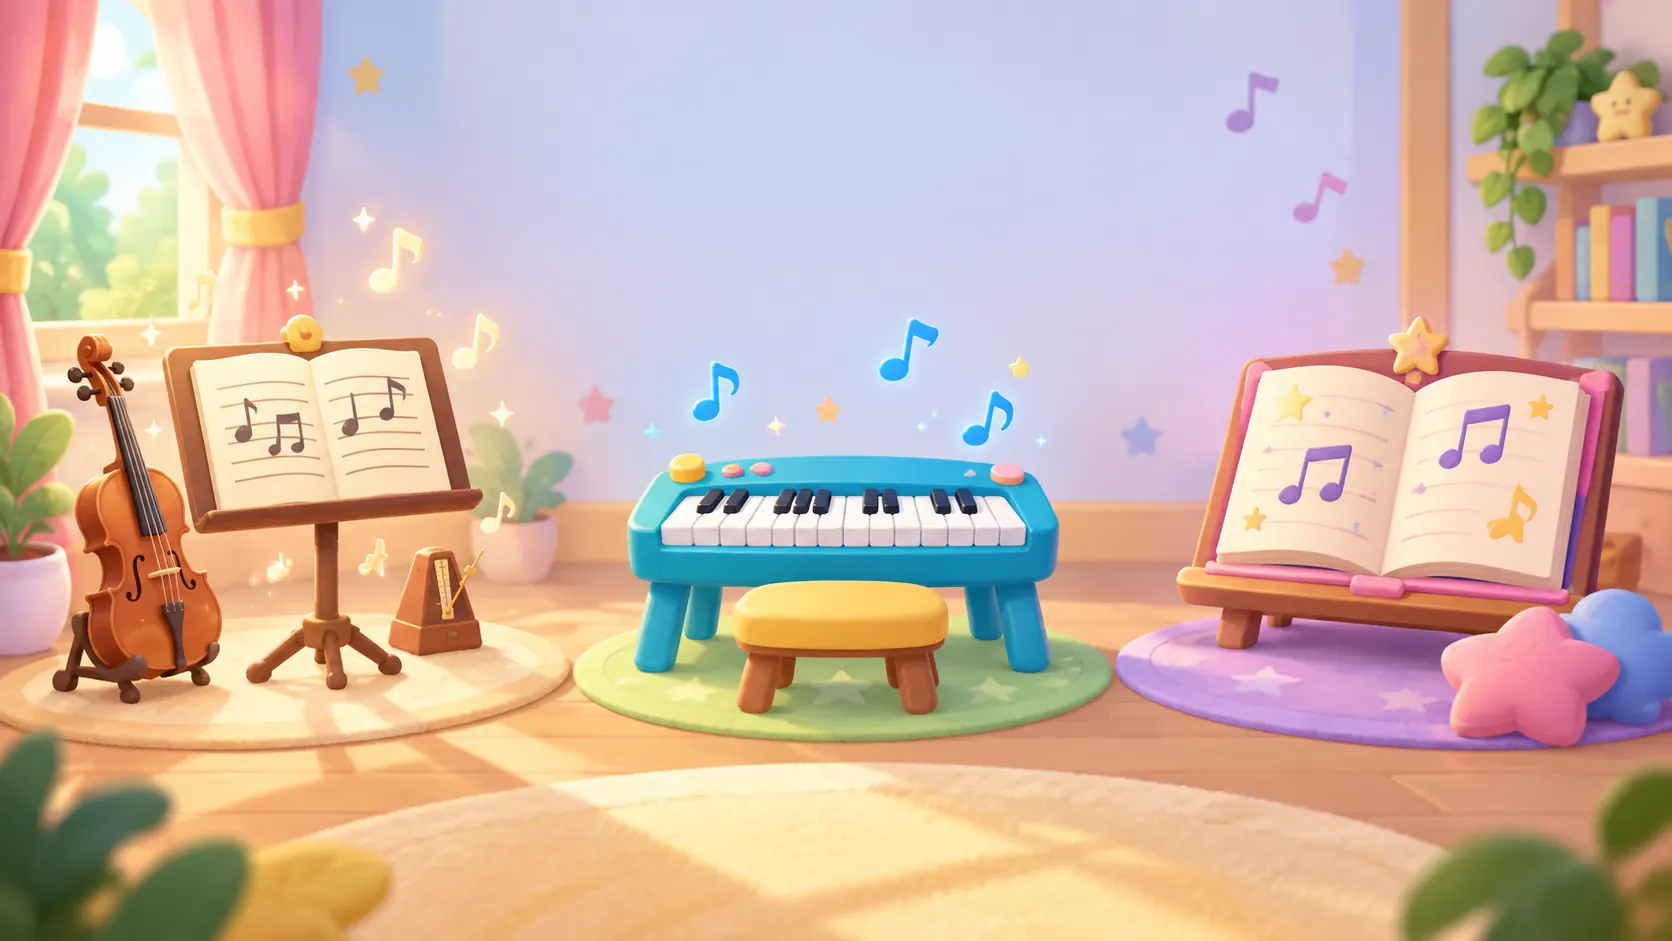
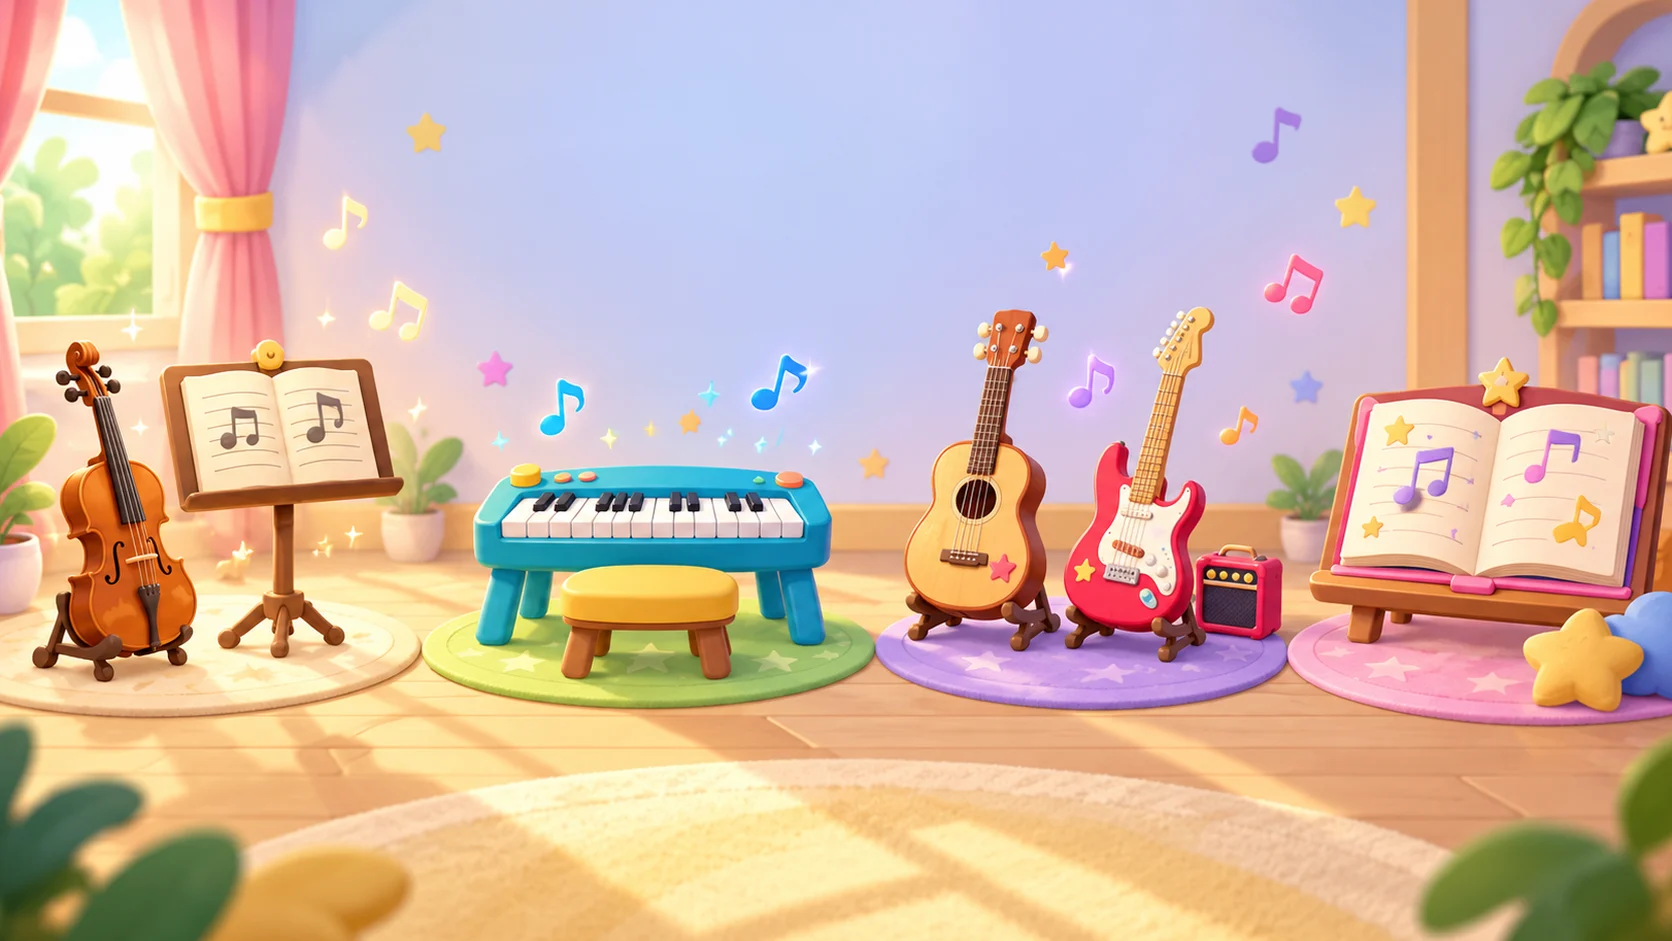
Publish site from private main c520a45f5fc2db3401aa675318df1c2d513d5a29 (children-apps-v41)

diff --git a/children-apps/playroom/category.css b/children-apps/playroom/category.css
@@ -13,7 +13,24 @@ body.painted-room{display:block;margin:0;padding:0;min-height:100%;background:#2
 .painted-room .topbar{position:fixed;z-index:30;inset:calc(12px + env(safe-area-inset-top)) 12px auto;display:flex;align-items:flex-start;justify-content:space-between;pointer-events:none}
 .painted-room .back,.painted-room .view-switch,.painted-room .music-btn{pointer-events:auto;background:rgba(255,255,255,.95);border:2px solid #8f86d8;box-shadow:0 4px 0 #665cae;color:#453884}
 .painted-room .back{min-height:56px;padding:0 18px 0 14px}.painted-room .back svg{width:23px;height:23px}.view-switch{display:flex;padding:4px;border-radius:999px;margin-left:auto;margin-right:72px}.view-switch button{min-height:46px;padding:0 16px;border:0;border-radius:999px;background:transparent;color:#53478e;font:900 .95rem 'Nunito',sans-serif}.view-switch button[aria-pressed=true]{background:#6656bd;color:#fff}
-.room-view{min-height:100svh;display:grid;place-items:center;padding:84px 12px 18px}.room-frame{position:relative;width:min(100%,1672px);aspect-ratio:1672/941;border-radius:24px;overflow:hidden;box-shadow:0 18px 55px rgba(7,4,28,.45);background:#171238}.room-frame>img{display:block;width:100%;height:100%;object-fit:contain}.room-hotspots{position:absolute;inset:0}.room-hotspot{position:absolute;inset:0;display:block;background:transparent;-webkit-tap-highlight-color:transparent}.room-hotspot:hover,.room-hotspot:focus-visible{background:rgba(255,245,159,.18);filter:drop-shadow(0 0 9px #fff2a6);outline:0}
+.room-view{min-height:100svh;display:grid;place-items:center;padding:84px 12px 18px}.room-frame{position:relative;width:min(100%,1672px);aspect-ratio:1672/941;border-radius:24px;overflow:hidden;box-shadow:0 18px 55px rgba(7,4,28,.45);background:#171238}.room-frame>img{display:block;width:100%;height:100%;object-fit:contain}.room-hotspots{position:absolute;inset:0}.room-hotspot{position:absolute;inset:0;display:block;background:transparent;-webkit-tap-highlight-color:transparent}.room-hotspot:hover,.room-hotspot:focus-visible,.room-hotspot.on{background:rgba(255,245,159,.18);filter:drop-shadow(0 0 9px #fff2a6);outline:0}
+/* NAME BUBBLE (2026-10-07) — the hub's bubble (playroom.css), same values, for the room objects.
+   At rest nothing shows: no permanent labels, no dots. It appears on hover, on press (.on, set by
+   category.js's pointer handling, which mirrors playroom.js) and on keyboard focus-visible. The
+   hotspot is clip-pathed to its polygon and a clip-path clips children too, so each bubble lives
+   in a sibling .spot-tag span that category.js sizes to the polygon's bounding box; the sibling
+   combinators below light it from its own hotspot. */
+.spot-tag{position:absolute;z-index:1;pointer-events:none}
+.room-hotspot:hover+.spot-tag,.room-hotspot:focus-visible+.spot-tag,.room-hotspot.on+.spot-tag{z-index:2}
+.bubble{position:absolute;left:50%;top:0;--bubble-from:translate(-50%,-78%);transform:var(--bubble-from) scale(.85);opacity:0;transition:opacity .16s ease,transform .2s cubic-bezier(.3,1.6,.5,1);padding:.35em .85em .4em;border-radius:999px;background:var(--card);border:3px solid #f3b7d5;box-shadow:0 4px 0 #e9cfe0,0 8px 18px rgba(72,48,104,.2);font-weight:900;font-size:clamp(14px,1.9vw,22px);line-height:1.15;white-space:nowrap;color:#4a3168;pointer-events:none}
+.bubble.below{--bubble-from:translate(-50%,18%)}
+.bubble.start{left:0;--bubble-from:translate(0,-78%)}
+.bubble.start.below{--bubble-from:translate(0,18%)}
+.bubble.end{left:auto;right:0;--bubble-from:translate(0,-78%)}
+.bubble.end.below{--bubble-from:translate(0,18%)}
+@media(hover:hover){.room-hotspot:hover+.spot-tag .bubble{opacity:1;transform:var(--bubble-from) scale(1)}}
+.room-hotspot:focus-visible+.spot-tag .bubble,.room-hotspot.on+.spot-tag .bubble{opacity:1;transform:var(--bubble-from) scale(1)}
+
 .cards-view{min-height:100svh;padding:100px 20px 34px;background:linear-gradient(160deg,#fdf6ff,#edf2ff);color:#3b2a52}.cards-view header{text-align:center;margin:0 auto 26px}.cards-view h1{margin:0}.painted-room .grid{grid-template-columns:repeat(auto-fit,minmax(220px,280px));max-width:980px;margin:auto}.painted-room .card{min-height:235px;padding:22px 16px}.painted-room .card .art{width:116px;height:116px}.painted-room .card .art img{width:92px;height:92px}.music-btn{position:fixed;z-index:40;top:calc(12px + env(safe-area-inset-top));right:12px;width:56px;height:56px;border-radius:50%;display:grid;place-items:center;padding:0}.music-btn svg{width:28px}.music-btn .note{fill:#8f86d8}.music-btn .slash{stroke:#8f86d8;stroke-width:2.6;stroke-linecap:round}.music-btn[aria-pressed=true] .note{fill:#e5a100}.music-btn[aria-pressed=true] .slash{display:none}
 @media(max-width:560px){.painted-room .back{width:56px;padding:0;justify-content:center}.painted-room .back span{display:none}.view-switch{margin-right:62px}.view-switch button{padding:0 11px}.room-view{padding-inline:4px}.room-frame{border-radius:12px}.painted-room .grid{grid-template-columns:minmax(220px,340px)}}
-@media(prefers-reduced-motion:reduce){.card{transition:none}.card:hover{transform:none}}
+@media(prefers-reduced-motion:reduce){.card{transition:none}.card:hover{transform:none}.bubble{transition:none}}

diff --git a/children-apps/playroom/category.js b/children-apps/playroom/category.js
@@ -7,6 +7,7 @@
   var cat = R.categories.filter(function (c) { return c.id === id; })[0];
   var room = R.categoryRooms && R.categoryRooms[id];
   var THAI = /[\u0E00-\u0E7F]/;
+  var reduced = window.matchMedia && window.matchMedia('(prefers-reduced-motion: reduce)').matches;
   var title = document.getElementById('catTitle');
   var line = document.getElementById('catLine');
   var picture = document.getElementById('roomPicture');
@@ -53,6 +54,32 @@
     a.firstChild.textContent = d.name;
     spots.appendChild(a);
 
+    /* The name bubble (owner, 2026-10-07: the main menu names its objects, the rooms did not).
+       The hotspot above is clip-pathed to the object's polygon and a clip-path clips children
+       too, so the bubble cannot live inside it: it sits in this sibling span, sized to the
+       polygon's bounding box. Edged exactly like the hub's doors (playroom.js): below an object
+       near the top of the room, pinned to its edge when centring would run off the picture. */
+    var x0 = 100, y0 = 100, x1 = 0, y1 = 0;
+    d.points.forEach(function (p) {
+      if (p[0] < x0) x0 = p[0];
+      if (p[0] > x1) x1 = p[0];
+      if (p[1] < y0) y0 = p[1];
+      if (p[1] > y1) y1 = p[1];
+    });
+    var w = x1 - x0, cx = x0 + w / 2;
+    var tag = document.createElement('span');
+    tag.className = 'spot-tag';
+    tag.setAttribute('aria-hidden', 'true');
+    tag.style.left = x0 + '%'; tag.style.top = y0 + '%';
+    tag.style.width = w + '%'; tag.style.height = (y1 - y0) + '%';
+    var b = document.createElement('span');
+    b.className = 'bubble' + (y0 < 12 ? ' below' : '') +
+                  (cx < 12 ? ' start' : (cx > 88 ? ' end' : ''));
+    b.lang = THAI.test(d.name) ? 'th' : 'en';
+    b.textContent = d.name;
+    tag.appendChild(b);
+    spots.appendChild(tag);
+
     var c = document.createElement('a');
     c.className = 'card'; c.href = L.app(d.href); c.dataset.id = d.id;
     if (d.tone) {
@@ -67,6 +94,38 @@
     var desc = document.createElement('span'); desc.className = 'desc'; desc.textContent = d.desc;
     c.appendChild(art); c.appendChild(name); c.appendChild(desc); grid.appendChild(c);
   });
+
+  /* ── PRESS, THEN GO ── the hub's tap handling (playroom.js), brought into the rooms so a tap
+     is answered with the object's name before the page goes. Modified clicks (new tab) are left
+     to the browser; a keyboard Enter goes at once. Every room object only ever navigates —
+     there is no card-view door here, so the bubble's job is the name, then the page turns. */
+  var going = false;
+  function clear() {
+    going = false;
+    Array.prototype.forEach.call(spots.querySelectorAll('.room-hotspot.on'), function (s) { s.classList.remove('on'); });
+  }
+  spots.addEventListener('pointerdown', function (e) {
+    var s = e.target.closest && e.target.closest('.room-hotspot');
+    if (!s || going) return;
+    clear();
+    s.classList.add('on');
+  });
+  spots.addEventListener('pointercancel', function () { if (!going) clear(); });
+  spots.addEventListener('pointerleave', function (e) { if (e.pointerType === 'mouse' && !going) clear(); });
+  spots.addEventListener('click', function (e) {
+    var s = e.target.closest && e.target.closest('.room-hotspot');
+    if (!s) return;
+    if (e.defaultPrevented || e.button !== 0 || e.metaKey || e.ctrlKey || e.shiftKey || e.altKey) return;
+    if (e.detail === 0) return;                 /* keyboard Enter: the browser follows the link at once */
+    e.preventDefault();
+    if (going) return;
+    going = true;
+    s.classList.add('on');
+    var href = s.href;
+    setTimeout(function () { window.location.assign(href); }, reduced ? 120 : 320);
+  });
+  /* Coming back from a game restores this page from the back-forward cache, lit as it was left. */
+  window.addEventListener('pageshow', function (e) { if (e.persisted) clear(); });
 
   var key = 'ca_category_view_' + id;
   function show(view, remember) {

diff --git a/children-apps/playroom/destinations.js b/children-apps/playroom/destinations.js
@@ -110,13 +110,16 @@ window.PLAYROOM = {
       objects: [
         { id: "classical-music", name: "Classical Music", desc: "Listen and guess",
           href: "../magic-math/classical-music.html", tile: "./assets/classical-music.webp", tone: ["#17a2b8", "#0d7c8e", "#e2f7fa"],
-          points: [[2.0,38.0],[7.0,34.0],[26.0,34.5],[30.0,40.0],[29.5,72.0],[23.0,76.0],[5.0,73.0],[2.0,65.0]] },
+          points: [[3.3, 36.3], [6.5, 36.3], [9.6, 37.9], [24.0, 37.9], [24.0, 53.2], [20.7, 68.6], [13.3, 69.1], [11.7, 71.3], [2.2, 71.3], [2.5, 55.4]] },
         { id: "toy-keyboard", name: "Toy Keyboard", desc: "Play and make music",
           href: "../toy-keyboard/", tile: "./assets/toy-keyboard.webp", tone: ["#8b6bd9", "#6046aa", "#f0ebff"],
-          points: [[36.0,49.0],[60.5,48.5],[64.0,55.0],[62.5,75.0],[57.0,78.5],[39.0,77.0],[35.5,69.0]] },
+          points: [[28.4, 49.9], [49.9, 49.4], [49.9, 57.1], [47.5, 65.5], [44.4, 65.5], [44.1, 71.9], [33.6, 72.1], [33.3, 65.5], [29.3, 65.5], [28.4, 57.6]] },
+        { id: "toy-guitar", name: "Toy Guitar", desc: "Strum, pick and drum",
+          href: "../toy-guitar/", tile: "./assets/toy-guitar.webp", tone: ["#ef6b69", "#b9474b", "#fff0df"],
+          points: [[58.0, 33.0], [62.0, 33.0], [63.8, 42.3], [69.4, 32.4], [72.7, 33.5], [71.2, 46.7], [72.1, 51.6], [76.8, 58.2], [76.8, 66.9], [69.4, 68.6], [63.2, 67.5], [54.3, 65.8], [53.9, 55.4], [57.0, 45.6]] },
         { id: "music-book", name: "Music Book", desc: "Explore songs",
           href: "../music-book/", tile: "./assets/music-book.webp", cutout: true, tone: ["#e280a6", "#b35279", "#fff0f6"],
-          points: [[71.0,36.0],[91.5,36.0],[96.0,43.0],[95.0,67.0],[89.0,71.5],[70.0,68.0],[68.5,59.0]] }
+          points: [[81.1, 41.7], [88.5, 38.4], [90.9, 40.6], [99.6, 42.3], [98.6, 64.2], [94.6, 69.1], [79.2, 68.6], [78.3, 62.0]] }
       ]
     },
     puzzles: {

diff --git a/children-apps/service-worker.js b/children-apps/service-worker.js
@@ -130,7 +130,7 @@
  *                  scenes and five shells join SHELL so every shaped object door
  *                  works offline. One branch bump for the complete room set.
  */
-const CACHE_NAME = "children-apps-v40";
+const CACHE_NAME = "children-apps-v41";
 
 /* Everything needed to render the hub with no network at all. Keep in step with
    index.html — a missing entry fails install and ships a broken offline page. */
